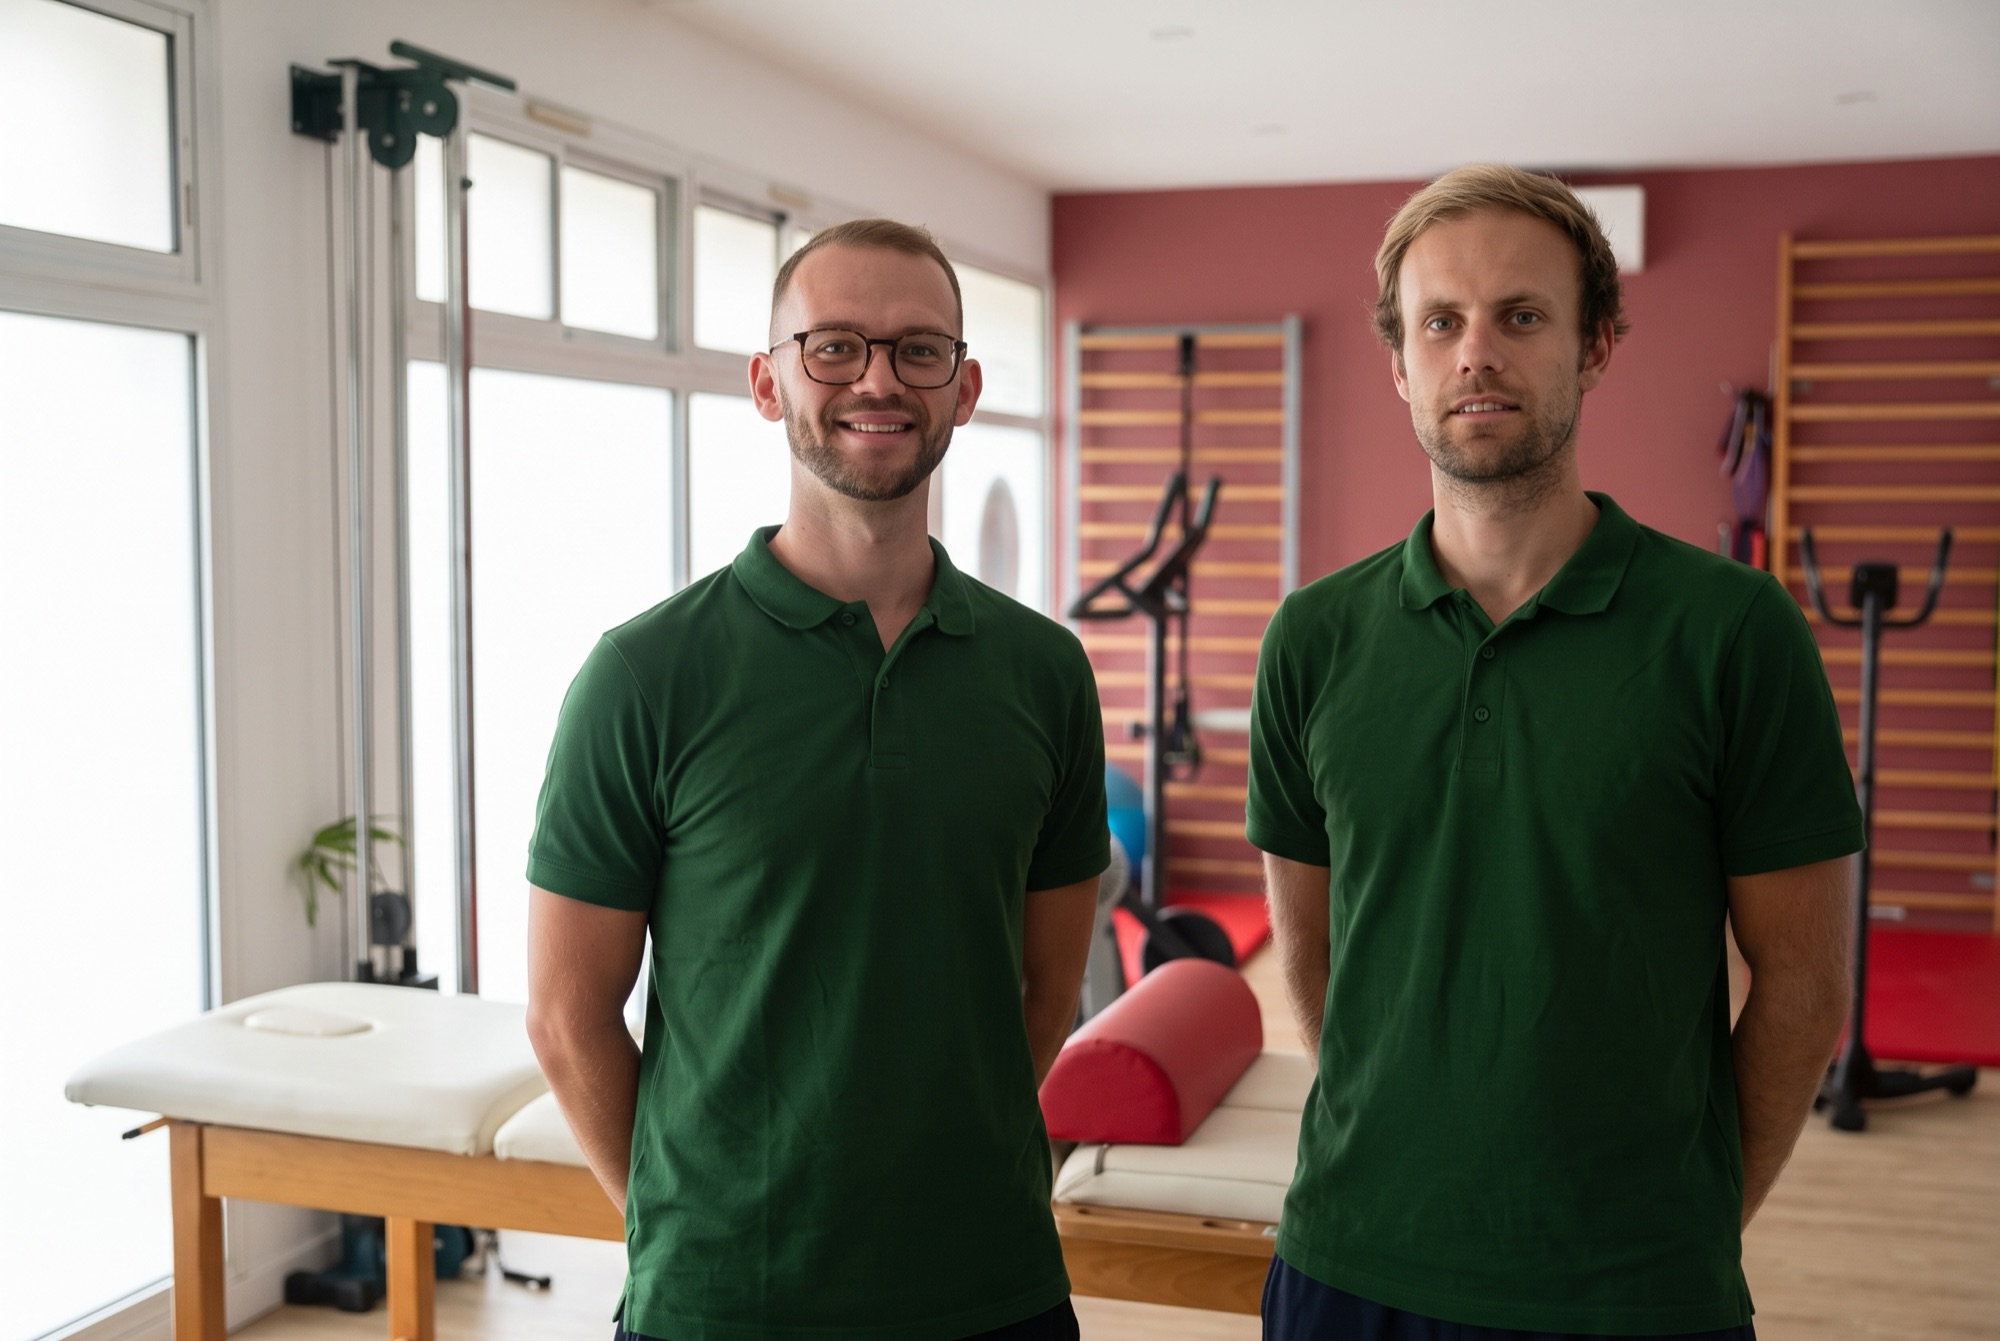
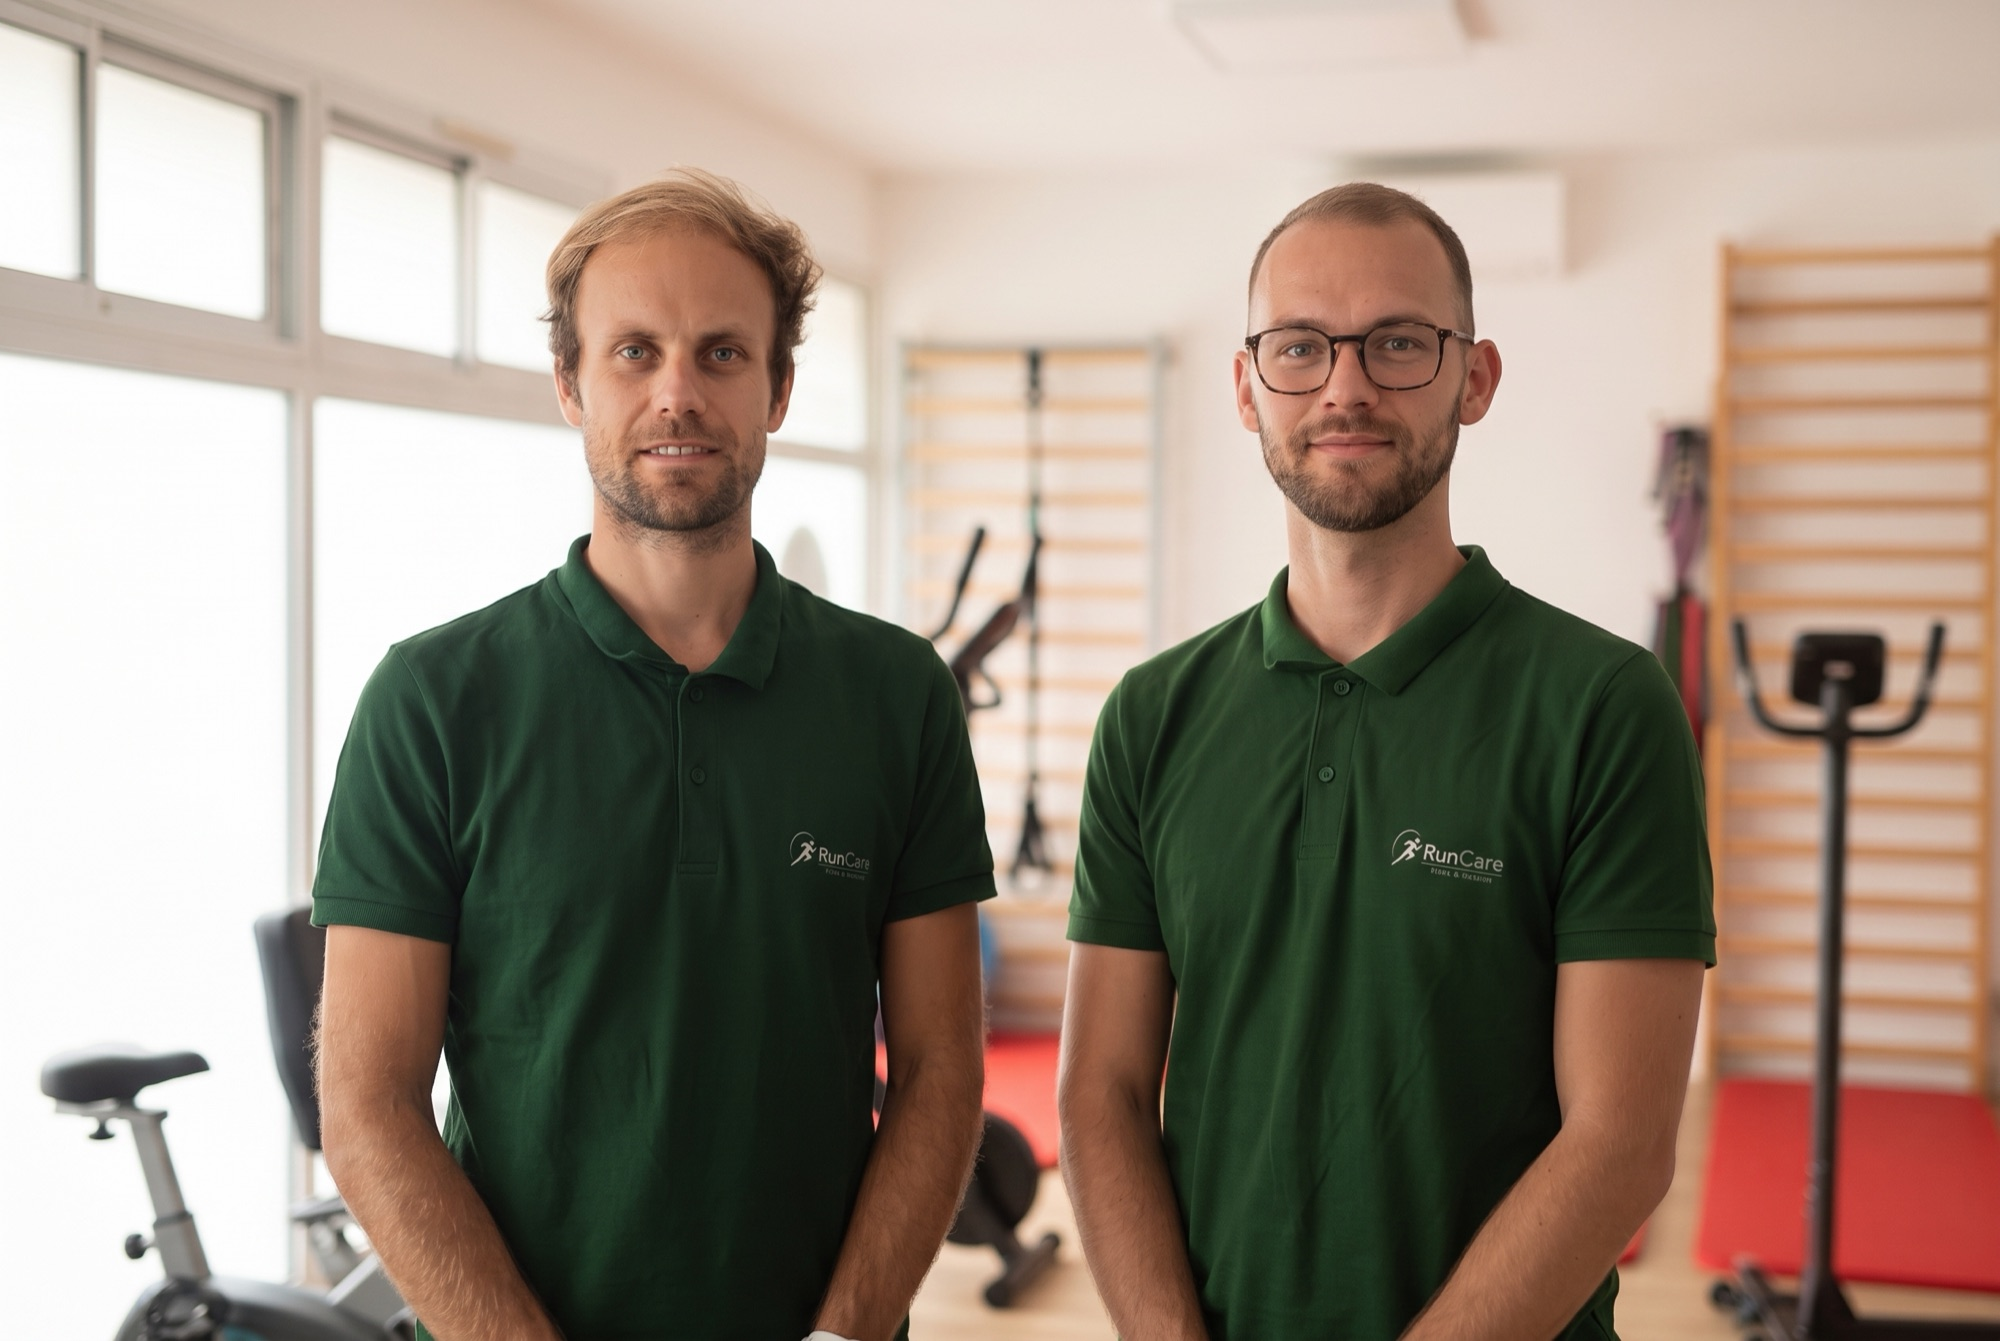
Nouvelle photo d'équipe, retrait de la salle générée par IA
Claude-Session: https://claude.ai/code/session_01WUhweD22hdEqQEcJ7cm5qv

diff --git a/docs/MODIFICATIONS-CONTENU.md b/docs/MODIFICATIONS-CONTENU.md
@@ -133,7 +133,7 @@ concernés sont surlignés en jaune avec une infobulle.
   tapis. Photos de scène ajoutées : coureur en visio (bilan), Romain analysant des données
   (bilan), coureur consultant son plan sur téléphone (coaching), quais de Bordeaux au petit
   matin (accueil), chaussures (article foulée), salle vide (page équipe).
-- Inchangées : photo duo, Lelio en trail, capture Nolio.
+- Photo duo remplacée par une version retouchée dans le vrai cabinet ; Lelio en trail retouché. Capture Nolio inchangée. La « salle vide » générée par IA a été retirée (trop artificielle) — une vraie photo du cabinet pourra la remplacer.
 
 ## Points en suspens (à fournir par RunCare)
 
